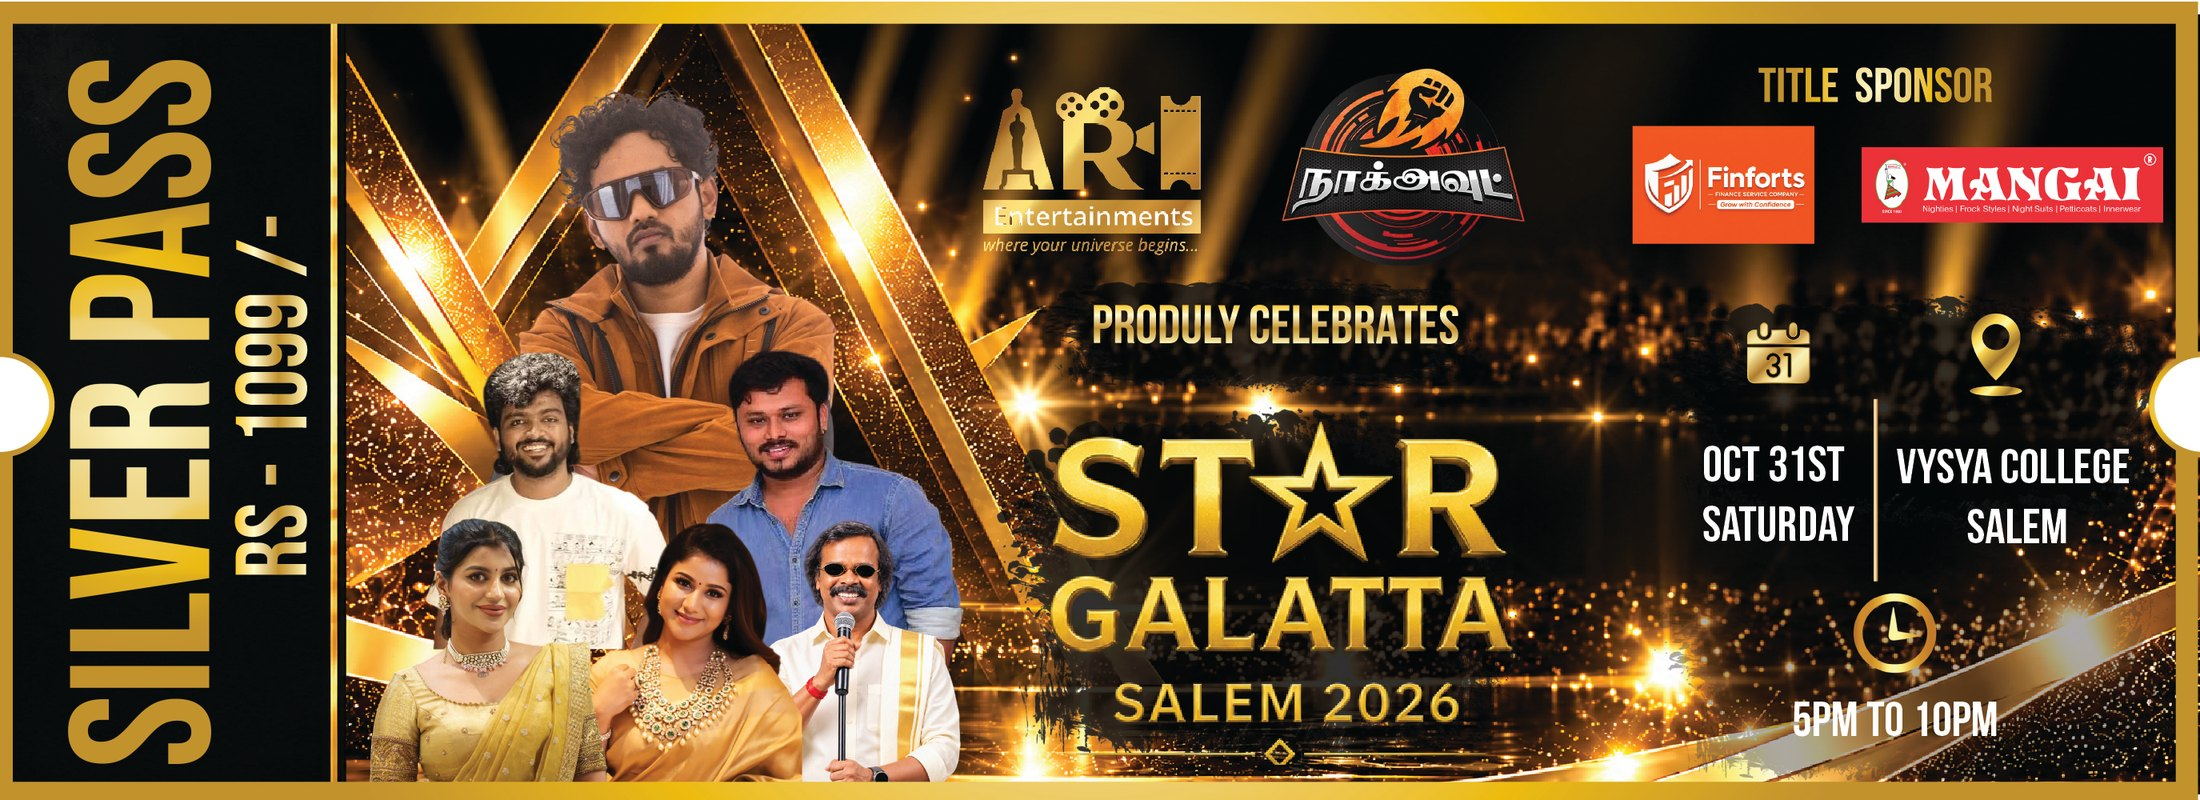
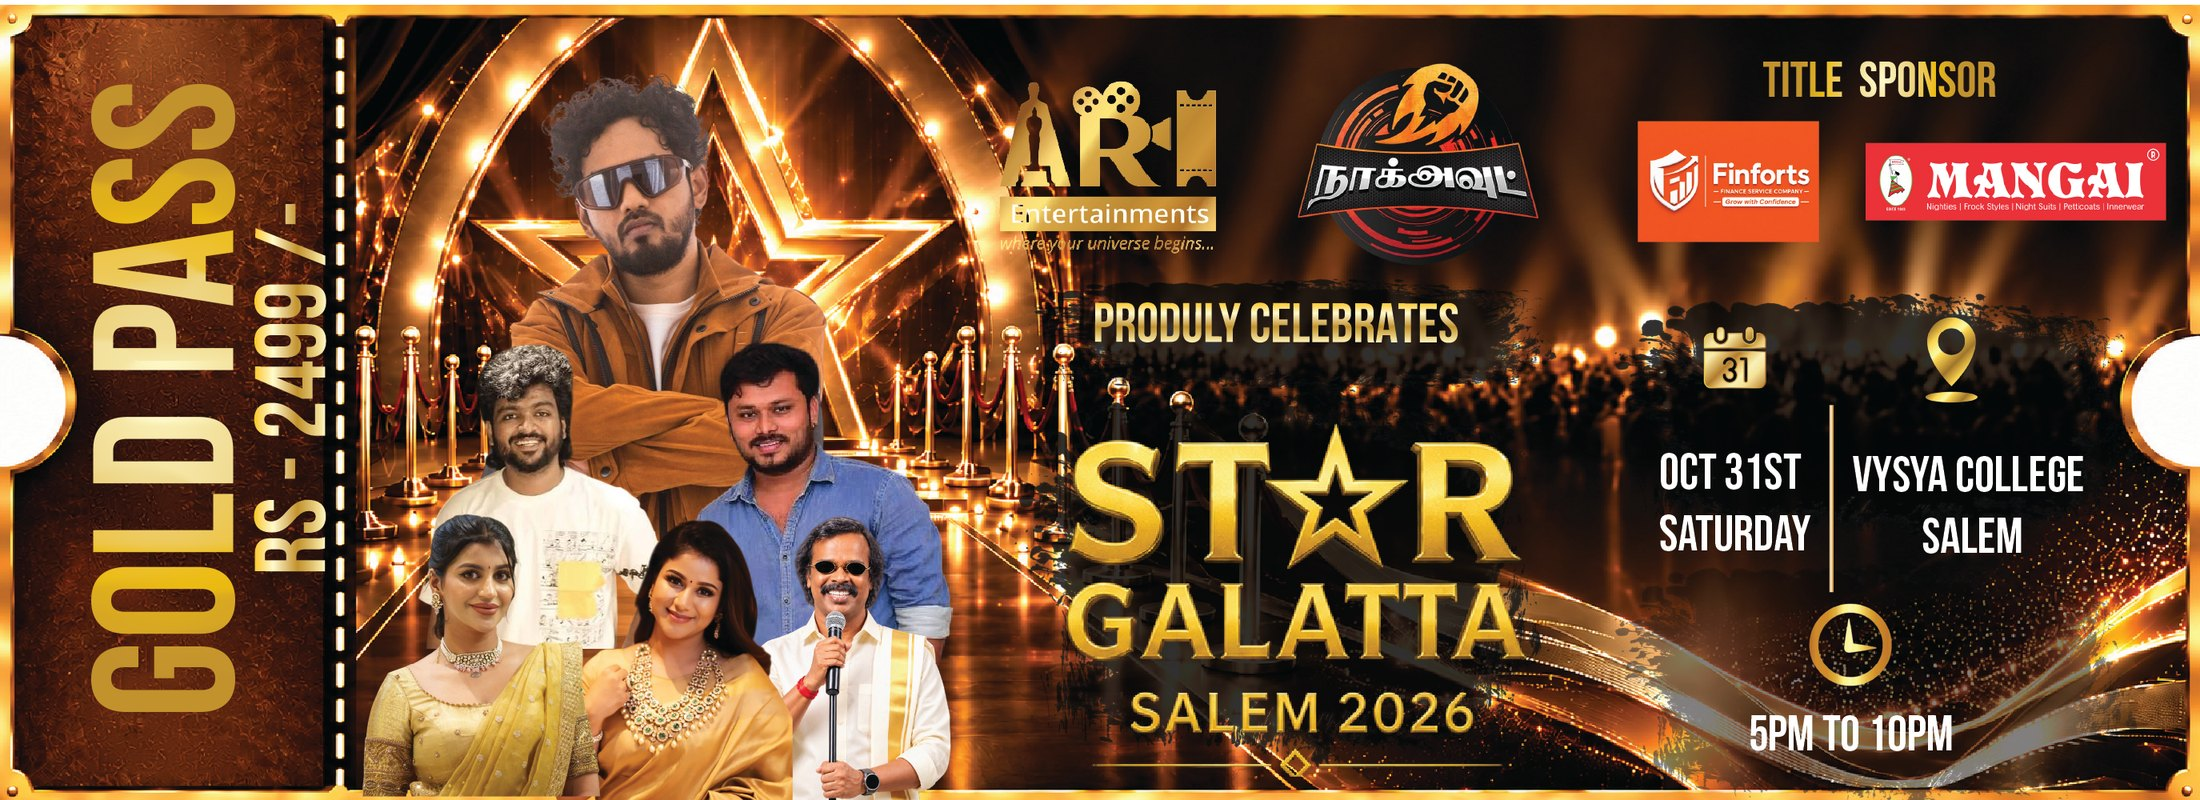
Rename the Gold, Silver and Bronze links to match the new pass names
The codes were not printed yet, so the links now match what each pass is called:
fanpit-pass -> gold-pass (Rs 2,499), gold-pass -> silver-pass (Rs 1,099),
silver-pass -> bronze-pass (Rs 599). New QR patterns for these three; the
MIP Elite and VVIP codes are unchanged. The lock covers the new patterns.

diff --git a/docs/star-galatta/silver-pass/index.html b/docs/star-galatta/silver-pass/index.html
@@ -4,14 +4,14 @@
 <meta charset="utf-8">
 <meta name="viewport" content="width=device-width, initial-scale=1">
 <meta name="robots" content="noindex, nofollow">
-<title>Bronze Pass | Star Galatta Salem 2026</title>
+<title>Silver Pass | Star Galatta Salem 2026</title>
 <link rel="preconnect" href="https://fonts.googleapis.com">
 <link rel="preconnect" href="https://fonts.gstatic.com" crossorigin>
 <link href="https://fonts.googleapis.com/css2?family=Outfit:wght@300;400;600;800&display=swap" rel="stylesheet">
 <style>
   * { box-sizing: border-box; }
   body { margin: 0; min-height: 100vh; display: flex; flex-direction: column; align-items: center;
-         justify-content: center; gap: 20px; padding: 16px; background: radial-gradient(circle at 50% 0%, #7a3e1755 0%, #0b0b0f 62%);
+         justify-content: center; gap: 20px; padding: 16px; background: radial-gradient(circle at 50% 0%, #5f6b7855 0%, #0b0b0f 62%);
          color: #f7f2ea; font-family: "Outfit", system-ui, sans-serif; }
   figure { margin: 0; width: min(100%, 960px); border-radius: 18px; overflow: hidden;
            background: #111015; box-shadow: 0 24px 60px rgba(0, 0, 0, .6); }
@@ -20,7 +20,7 @@
   .hint { margin: 0; font-size: 12px; font-weight: 300; color: #8d8579; }
   .details { padding: 22px; }
   .tier { display: inline-block; padding: 6px 12px; border-radius: 999px; font-size: 12px; font-weight: 600;
-          letter-spacing: .18em; background: linear-gradient(90deg, #7a3e17, #cd7f32); color: #fff;
+          letter-spacing: .18em; background: linear-gradient(90deg, #5f6b78, #c9d3dd); color: #fff;
           text-shadow: 0 1px 2px rgba(0, 0, 0, .35); }
   h1 { margin: 12px 0 6px; font-size: clamp(26px, 7vw, 38px); font-weight: 800; line-height: 1.05;
        letter-spacing: -.02em; }
@@ -36,12 +36,12 @@
 </head>
 <body>
 <figure class="pass">
-  <a href="../img/silver-pass.jpg"><img src="../img/silver-pass.jpg" alt="Star Galatta Salem 2026 - Bronze Pass, Rs 599"></a>
+  <a href="../img/silver-pass.jpg"><img src="../img/silver-pass.jpg" alt="Star Galatta Salem 2026 - Silver Pass, Rs 1,099"></a>
 </figure>
 <p class="hint">Tap the pass to open it full size</p>
 <figure>
   <div class="details">
-    <span class="tier">BRONZE PASS &middot; &#8377;599</span>
+    <span class="tier">SILVER PASS &middot; &#8377;1,099</span>
     <h1>Star Galatta Salem 2026</h1>
     <p class="info">Sat, Oct 31 &middot; 5 &ndash; 10 PM &middot; Vysya College, Salem</p>
     <div class="foot">

diff --git a/docs/star-galatta/bronze-pass/index.html b/docs/star-galatta/bronze-pass/index.html
@@ -4,14 +4,14 @@
 <meta charset="utf-8">
 <meta name="viewport" content="width=device-width, initial-scale=1">
 <meta name="robots" content="noindex, nofollow">
-<title>Gold Pass | Star Galatta Salem 2026</title>
+<title>Bronze Pass | Star Galatta Salem 2026</title>
 <link rel="preconnect" href="https://fonts.googleapis.com">
 <link rel="preconnect" href="https://fonts.gstatic.com" crossorigin>
 <link href="https://fonts.googleapis.com/css2?family=Outfit:wght@300;400;600;800&display=swap" rel="stylesheet">
 <style>
   * { box-sizing: border-box; }
   body { margin: 0; min-height: 100vh; display: flex; flex-direction: column; align-items: center;
-         justify-content: center; gap: 20px; padding: 16px; background: radial-gradient(circle at 50% 0%, #b8860b55 0%, #0b0b0f 62%);
+         justify-content: center; gap: 20px; padding: 16px; background: radial-gradient(circle at 50% 0%, #7a3e1755 0%, #0b0b0f 62%);
          color: #f7f2ea; font-family: "Outfit", system-ui, sans-serif; }
   figure { margin: 0; width: min(100%, 960px); border-radius: 18px; overflow: hidden;
            background: #111015; box-shadow: 0 24px 60px rgba(0, 0, 0, .6); }
@@ -20,7 +20,7 @@
   .hint { margin: 0; font-size: 12px; font-weight: 300; color: #8d8579; }
   .details { padding: 22px; }
   .tier { display: inline-block; padding: 6px 12px; border-radius: 999px; font-size: 12px; font-weight: 600;
-          letter-spacing: .18em; background: linear-gradient(90deg, #b8860b, #f5d061); color: #fff;
+          letter-spacing: .18em; background: linear-gradient(90deg, #7a3e17, #cd7f32); color: #fff;
           text-shadow: 0 1px 2px rgba(0, 0, 0, .35); }
   h1 { margin: 12px 0 6px; font-size: clamp(26px, 7vw, 38px); font-weight: 800; line-height: 1.05;
        letter-spacing: -.02em; }
@@ -36,12 +36,12 @@
 </head>
 <body>
 <figure class="pass">
-  <a href="../img/fanpit-pass.jpg"><img src="../img/fanpit-pass.jpg" alt="Star Galatta Salem 2026 - Gold Pass, Rs 2,499"></a>
+  <a href="../img/bronze-pass.jpg"><img src="../img/bronze-pass.jpg" alt="Star Galatta Salem 2026 - Bronze Pass, Rs 599"></a>
 </figure>
 <p class="hint">Tap the pass to open it full size</p>
 <figure>
   <div class="details">
-    <span class="tier">GOLD PASS &middot; &#8377;2,499</span>
+    <span class="tier">BRONZE PASS &middot; &#8377;599</span>
     <h1>Star Galatta Salem 2026</h1>
     <p class="info">Sat, Oct 31 &middot; 5 &ndash; 10 PM &middot; Vysya College, Salem</p>
     <div class="foot">

diff --git a/docs/star-galatta/gold-pass/index.html b/docs/star-galatta/gold-pass/index.html
@@ -4,14 +4,14 @@
 <meta charset="utf-8">
 <meta name="viewport" content="width=device-width, initial-scale=1">
 <meta name="robots" content="noindex, nofollow">
-<title>Silver Pass | Star Galatta Salem 2026</title>
+<title>Gold Pass | Star Galatta Salem 2026</title>
 <link rel="preconnect" href="https://fonts.googleapis.com">
 <link rel="preconnect" href="https://fonts.gstatic.com" crossorigin>
 <link href="https://fonts.googleapis.com/css2?family=Outfit:wght@300;400;600;800&display=swap" rel="stylesheet">
 <style>
   * { box-sizing: border-box; }
   body { margin: 0; min-height: 100vh; display: flex; flex-direction: column; align-items: center;
-         justify-content: center; gap: 20px; padding: 16px; background: radial-gradient(circle at 50% 0%, #5f6b7855 0%, #0b0b0f 62%);
+         justify-content: center; gap: 20px; padding: 16px; background: radial-gradient(circle at 50% 0%, #b8860b55 0%, #0b0b0f 62%);
          color: #f7f2ea; font-family: "Outfit", system-ui, sans-serif; }
   figure { margin: 0; width: min(100%, 960px); border-radius: 18px; overflow: hidden;
            background: #111015; box-shadow: 0 24px 60px rgba(0, 0, 0, .6); }
@@ -20,7 +20,7 @@
   .hint { margin: 0; font-size: 12px; font-weight: 300; color: #8d8579; }
   .details { padding: 22px; }
   .tier { display: inline-block; padding: 6px 12px; border-radius: 999px; font-size: 12px; font-weight: 600;
-          letter-spacing: .18em; background: linear-gradient(90deg, #5f6b78, #c9d3dd); color: #fff;
+          letter-spacing: .18em; background: linear-gradient(90deg, #b8860b, #f5d061); color: #fff;
           text-shadow: 0 1px 2px rgba(0, 0, 0, .35); }
   h1 { margin: 12px 0 6px; font-size: clamp(26px, 7vw, 38px); font-weight: 800; line-height: 1.05;
        letter-spacing: -.02em; }
@@ -36,12 +36,12 @@
 </head>
 <body>
 <figure class="pass">
-  <a href="../img/gold-pass.jpg"><img src="../img/gold-pass.jpg" alt="Star Galatta Salem 2026 - Silver Pass, Rs 1,099"></a>
+  <a href="../img/gold-pass.jpg"><img src="../img/gold-pass.jpg" alt="Star Galatta Salem 2026 - Gold Pass, Rs 2,499"></a>
 </figure>
 <p class="hint">Tap the pass to open it full size</p>
 <figure>
   <div class="details">
-    <span class="tier">SILVER PASS &middot; &#8377;1,099</span>
+    <span class="tier">GOLD PASS &middot; &#8377;2,499</span>
     <h1>Star Galatta Salem 2026</h1>
     <p class="info">Sat, Oct 31 &middot; 5 &ndash; 10 PM &middot; Vysya College, Salem</p>
     <div class="foot">

diff --git a/prepare_passes.py b/prepare_passes.py
@@ -5,22 +5,22 @@ import os
 from PIL import Image, ImageCms
 
 # (slug, pass name, price, original ticket file, badge colours)
-# The slug is inside the printed QR code - never change it. The name and price can change freely:
-# the client renamed Fanpit -> Gold, Gold -> Silver, Silver -> Bronze, so those slugs keep the old names.
+# The slug is inside the QR code - never change it once the codes are shared. The name and price
+# can change freely. The original ticket files keep the designer's old names (Fanpit, Gold, Silver).
 TIERS = [
     ("mip-elite-pass", "MIP Elite Pass", "25,000", "MIP elite ticket.jpg.jpeg", ("#c4122f", "#f2b632")),
     ("vvip-pass", "VVIP Pass", "10,000", "VVIP Ticket.jpg.jpeg", ("#0f7a3c", "#e3b53b")),
-    ("fanpit-pass", "Gold Pass", "2,499", "Fanpit Ticket.jpg.jpeg", ("#b8860b", "#f5d061")),
-    ("gold-pass", "Silver Pass", "1,099", "Gold Ticket.jpg.jpeg", ("#5f6b78", "#c9d3dd")),
-    ("silver-pass", "Bronze Pass", "599", "Silver ticket.jpg.jpeg", ("#7a3e17", "#cd7f32")),
+    ("gold-pass", "Gold Pass", "2,499", "Fanpit Ticket.jpg.jpeg", ("#b8860b", "#f5d061")),
+    ("silver-pass", "Silver Pass", "1,099", "Gold Ticket.jpg.jpeg", ("#5f6b78", "#c9d3dd")),
+    ("bronze-pass", "Bronze Pass", "599", "Silver ticket.jpg.jpeg", ("#7a3e17", "#cd7f32")),
 ]
 
 # The name the designer's artwork prints on the side strip, and its ink. Where it differs from the
 # pass name above, relabel.py replaces it on the picture (prices on the artwork are already right).
 PRINTED = {
-    "fanpit-pass": ("FANPIT PASS", "gold"),
-    "gold-pass": ("GOLD PASS", "gold"),
-    "silver-pass": ("SILVER PASS", "silver"),
+    "gold-pass": ("FANPIT PASS", "gold"),
+    "silver-pass": ("GOLD PASS", "gold"),
+    "bronze-pass": ("SILVER PASS", "silver"),
 }
 
 PASS_DIR = "passes"

diff --git a/scripts/check_qr_links.py b/scripts/check_qr_links.py
@@ -18,19 +18,20 @@ import urllib.request
 QR_PATHS = [
     "star-galatta/mip-elite-pass",
     "star-galatta/vvip-pass",
-    "star-galatta/fanpit-pass",
     "star-galatta/gold-pass",
     "star-galatta/silver-pass",
+    "star-galatta/bronze-pass",
 ]
 
 # SHA-256 of each frozen QR pattern (each encodes https://events.iqtechmax.com/<path>).
-# Cut pixel-for-pixel from the QR cards first shared on Oct 12, 2026.
+# MIP Elite and VVIP: cut from the cards first shared on Oct 12, 2026. Gold, Silver, Bronze:
+# redrawn on Oct 13, 2026 when their links were renamed to match the new pass names.
 QR_LOCK = {
[6 lines of base64/hex data omitted]
 }
 
 ROOT = os.path.join(os.path.dirname(os.path.abspath(__file__)), "..")

diff --git a/README.md b/README.md
@@ -18,14 +18,15 @@ a ticket design or the page layout changes the page and the label, never the QR 
 |---|---|---|---|
 | MIP Elite Pass | Rs 25,000 | `qr/qr_mip-elite-pass.png` | https://events.iqtechmax.com/star-galatta/mip-elite-pass |
 | VVIP Pass | Rs 10,000 | `qr/qr_vvip-pass.png` | https://events.iqtechmax.com/star-galatta/vvip-pass |
-| Gold Pass | Rs 2,499 | `qr/qr_fanpit-pass.png` | https://events.iqtechmax.com/star-galatta/fanpit-pass |
-| Silver Pass | Rs 1,099 | `qr/qr_gold-pass.png` | https://events.iqtechmax.com/star-galatta/gold-pass |
-| Bronze Pass | Rs 599 | `qr/qr_silver-pass.png` | https://events.iqtechmax.com/star-galatta/silver-pass |
+| Gold Pass | Rs 2,499 | `qr/qr_gold-pass.png` | https://events.iqtechmax.com/star-galatta/gold-pass |
+| Silver Pass | Rs 1,099 | `qr/qr_silver-pass.png` | https://events.iqtechmax.com/star-galatta/silver-pass |
+| Bronze Pass | Rs 599 | `qr/qr_bronze-pass.png` | https://events.iqtechmax.com/star-galatta/bronze-pass |
 
 On Oct 13, 2026 ARI Entertainment renamed three levels (Fan Pit → Gold, Gold → Silver,
-Silver → Bronze, prices unchanged). The links keep the old names on purpose, since they are
-inside the QR codes; only the names shown on the pages, the QR labels and the ticket pictures
-changed (`TIERS` in `prepare_passes.py`). The designer's artwork still prints the old names, so
+Silver → Bronze, prices unchanged). The codes were not printed yet, so the three links and QR
+codes were renamed to match (`gold-pass`, `silver-pass`, `bronze-pass`; `fanpit-pass` is gone).
+The designer's ticket files keep their old names (`Fanpit Ticket.jpg.jpeg` is now the Gold Pass,
+see `TIERS` in `prepare_passes.py`), and the artwork still prints the old names, so
 `prepare_passes.py` rewrites the name on each picture's side strip with `relabel.py` (same font,
 size, spacing and gold/silver finish; the price line and the rest of the artwork are untouched).
 If the designer sends updated artwork, set its printed name in `PRINTED` and the step is skipped.
@@ -41,9 +42,9 @@ If the designer sends updated artwork, set its printed name in `PRINTED` and the
 **Never rename or move these 5 folders in `docs/`:**
 
 ```
-star-galatta/mip-elite-pass    star-galatta/gold-pass
-star-galatta/vvip-pass         star-galatta/silver-pass
-star-galatta/fanpit-pass
+star-galatta/mip-elite-pass    star-galatta/silver-pass
+star-galatta/vvip-pass         star-galatta/bronze-pass
+star-galatta/gold-pass
 ```
 
 If one must move, keep the old folder with an `index.html` that redirects to the new place.
